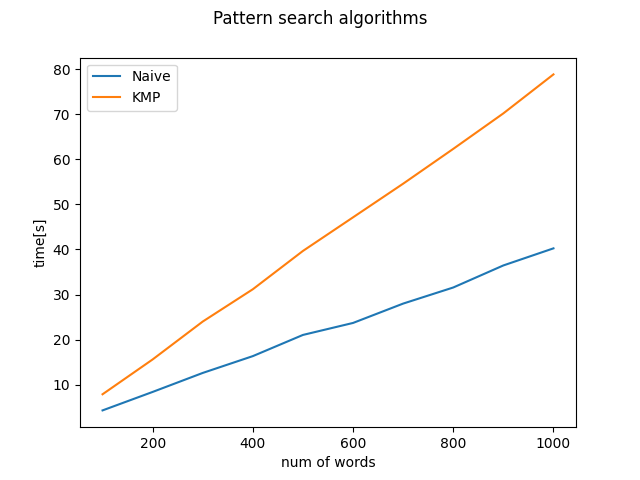
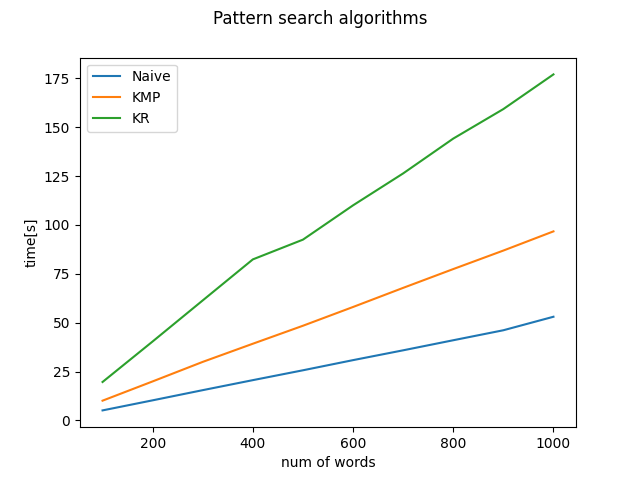
updated graphs

diff --git a/main.py b/main.py
@@ -47,10 +47,10 @@ def main():
         print("Measuring KMP. Progress: {0}/{1}".format(round(i/INTERVAL), round(MAX_NUM_OF_WORDS/INTERVAL)), end='\r')
         kmp_list.append(measure_time(searchKMP, i, word_list, text))
     
-    # kr_list = []
-    # for i in x_list:
-    #     print("Measuring KMP. Progress: {0}/{1}".format(round(i/INTERVAL), round(MAX_NUM_OF_WORDS/INTERVAL)), end='\r')
-    #     kr_list.append(measure_time(searchKR, i, word_list, text))
+    kr_list = []
+    for i in x_list:
+        print("Measuring KMP. Progress: {0}/{1}".format(round(i/INTERVAL), round(MAX_NUM_OF_WORDS/INTERVAL)), end='\r')
+        kr_list.append(measure_time(searchKR, i, word_list, text))
     
     
     print(end='\033[K')
@@ -63,7 +63,7 @@ def main():
 
     plt.plot(x_list, naive_list, label="Naive")
     plt.plot(x_list, kmp_list, label="KMP")
-    # plt.plot(x_list, kr_list, label="KR")
+    plt.plot(x_list, kr_list, label="KR")
     
     plt.legend()
     plt.savefig('pattern_search.png')
